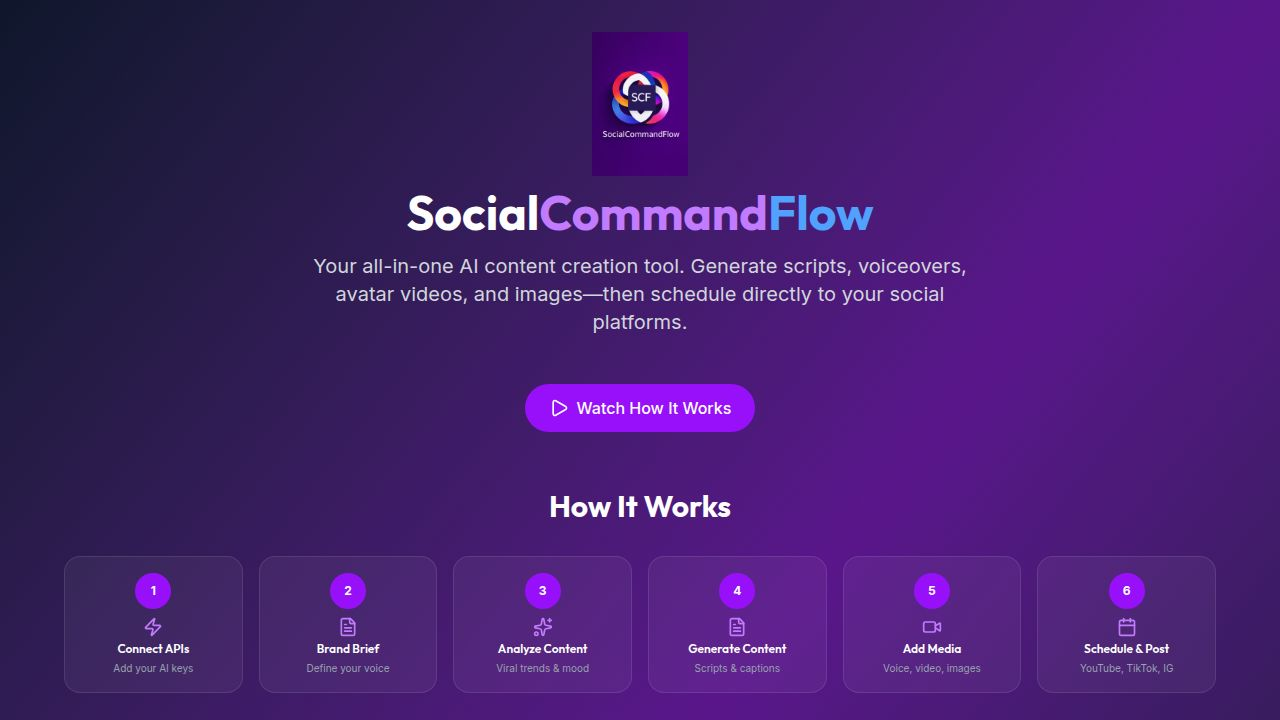
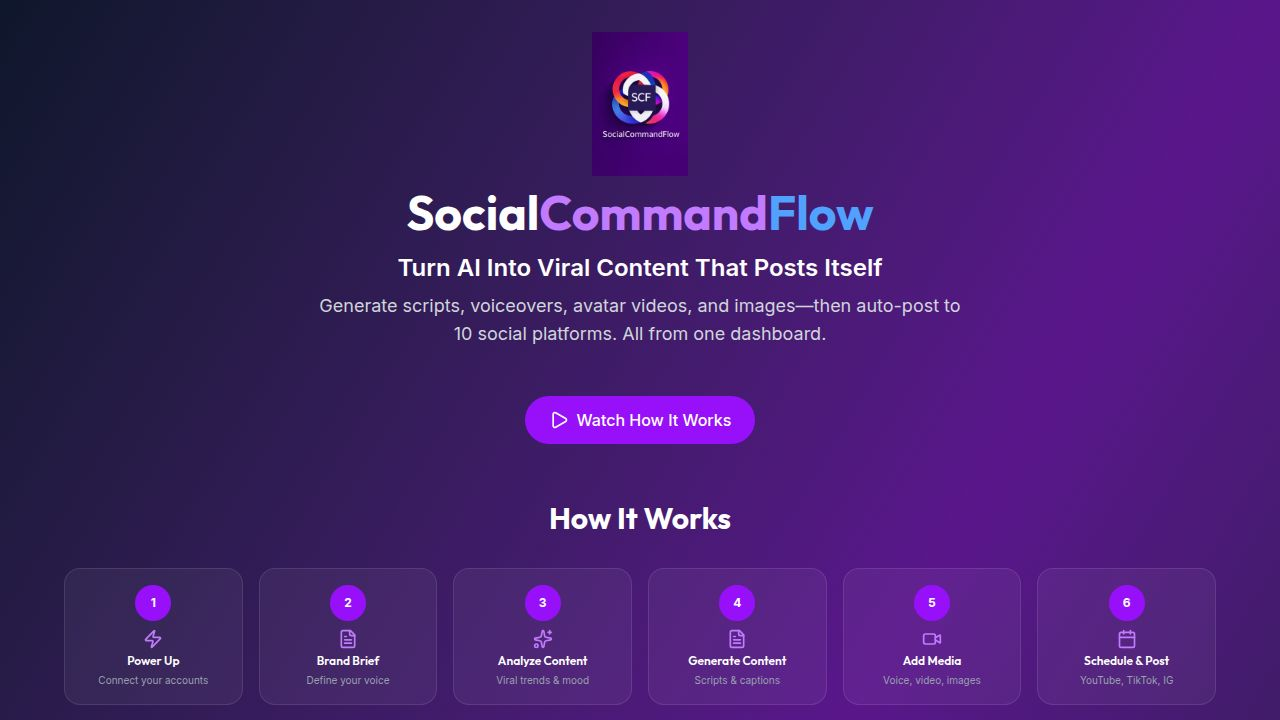
Update landing page to highlight benefits and add pricing
Enhance the landing page by updating the headline to focus on user benefits, adding a testimonial, modifying the initial setup step, and introducing a new pricing section with three tiers.

Replit-Commit-Author: Agent
Replit-Commit-Session-Id: 75572201-90b1-4220-8221-e152abdb9b7f
Replit-Commit-Checkpoint-Type: full_checkpoint
Replit-Commit-Event-Id: 7abbfe2a-8423-4b09-b832-18573d071998
Replit-Commit-Screenshot-Url: https://storage.googleapis.com/screenshot-production-us-central1/776bf55e-733a-4d3d-af04-dcddb1868f6d/75572201-90b1-4220-8221-e152abdb9b7f/YocIDBl
Replit-Helium-Checkpoint-Created: true

diff --git a/client/src/pages/Landing.tsx b/client/src/pages/Landing.tsx
@@ -4,7 +4,7 @@ import { Input } from "@/components/ui/input";
 import { Label } from "@/components/ui/label";
 import { Card, CardContent, CardDescription, CardHeader, CardTitle } from "@/components/ui/card";
 import { Tabs, TabsContent, TabsList, TabsTrigger } from "@/components/ui/tabs";
-import { Zap, Calendar, Sparkles, Video, Mic, Image, FileText, Headphones, Scissors, Wand2, Film, UserCircle, Languages, Clapperboard, Play, MessageSquare } from "lucide-react";
+import { Zap, Calendar, Sparkles, Video, Mic, Image, FileText, Headphones, Scissors, Wand2, Film, UserCircle, Languages, Clapperboard, Play, MessageSquare, Star, Check } from "lucide-react";
 import { Link } from "wouter";
 import { useAuth } from "@/hooks/use-auth";
 
@@ -37,8 +37,11 @@ export default function Landing() {
           <h1 className="text-3xl md:text-5xl font-bold text-white mb-3 md:mb-4">
             Social<span className="text-purple-400">Command</span><span className="text-blue-400">Flow</span>
           </h1>
-          <p className="text-base md:text-xl text-gray-300 max-w-2xl mx-auto px-2">
-            Your all-in-one AI content creation tool. Generate scripts, voiceovers, avatar videos, and images—then schedule directly to your social platforms.
+          <p className="text-xl md:text-2xl font-semibold text-white mb-2">
+            Turn AI Into Viral Content That Posts Itself
+          </p>
+          <p className="text-base md:text-lg text-gray-300 max-w-2xl mx-auto px-2">
+            Generate scripts, voiceovers, avatar videos, and images—then auto-post to 10 social platforms. All from one dashboard.
           </p>
         </div>
 
@@ -62,8 +65,8 @@ export default function Landing() {
             <div className="bg-white/5 border border-white/10 rounded-xl p-3 md:p-4 text-center">
               <div className="w-8 h-8 md:w-9 md:h-9 bg-purple-600 rounded-full flex items-center justify-center mx-auto mb-2 text-white font-bold text-xs">1</div>
               <Zap className="h-5 w-5 text-purple-400 mx-auto mb-1" />
-              <h3 className="text-white font-semibold mb-1 text-xs">Connect APIs</h3>
-              <p className="text-gray-400 text-[10px]">Add your AI keys</p>
+              <h3 className="text-white font-semibold mb-1 text-xs">Power Up</h3>
+              <p className="text-gray-400 text-[10px]">Connect your accounts</p>
             </div>
             
             <div className="bg-white/5 border border-white/10 rounded-xl p-3 md:p-4 text-center">
@@ -157,13 +160,67 @@ export default function Landing() {
           </div>
         </div>
 
-        <div className="text-center mb-8">
-          <Link href="/testimonials">
-            <span className="inline-flex items-center gap-2 text-purple-400 hover:text-purple-300 transition-colors cursor-pointer">
-              <MessageSquare className="h-5 w-5" />
-              <span className="font-medium">See What Our Users Say</span>
-            </span>
-          </Link>
+        <div className="max-w-2xl mx-auto mb-8">
+          <div className="bg-white/5 border border-purple-500/30 rounded-xl p-4 md:p-6 text-center">
+            <div className="flex justify-center gap-1 mb-2">
+              <Star className="h-4 w-4 text-yellow-400 fill-yellow-400" />
+              <Star className="h-4 w-4 text-yellow-400 fill-yellow-400" />
+              <Star className="h-4 w-4 text-yellow-400 fill-yellow-400" />
+              <Star className="h-4 w-4 text-yellow-400 fill-yellow-400" />
+              <Star className="h-4 w-4 text-yellow-400 fill-yellow-400" />
+            </div>
+            <p className="text-gray-200 italic text-sm md:text-base mb-2">
+              "This platform saved me 20+ hours a week. I went from struggling to post daily to having a full content calendar with AI-generated videos ready to go."
+            </p>
+            <p className="text-purple-400 font-medium text-sm">— Social Media Manager</p>
+          </div>
+          <div className="text-center mt-4">
+            <Link href="/testimonials">
+              <span className="inline-flex items-center gap-2 text-purple-400 hover:text-purple-300 transition-colors cursor-pointer">
+                <MessageSquare className="h-5 w-5" />
+                <span className="font-medium">See More Success Stories</span>
+              </span>
+            </Link>
+          </div>
+        </div>
+
+        <div className="max-w-4xl mx-auto mb-10">
+          <h2 className="text-2xl md:text-3xl font-bold text-white text-center mb-6">Simple Pricing</h2>
+          <div className="grid md:grid-cols-3 gap-4">
+            <div className="bg-white/5 border border-white/10 rounded-xl p-5 text-center">
+              <h3 className="text-lg font-bold text-white mb-1">Free</h3>
+              <p className="text-3xl font-bold text-white mb-1">$0</p>
+              <p className="text-gray-400 text-xs mb-4">Forever free</p>
+              <ul className="text-left text-sm text-gray-300 space-y-2">
+                <li className="flex items-center gap-2"><Check className="h-4 w-4 text-green-400" /> 3 social channels</li>
+                <li className="flex items-center gap-2"><Check className="h-4 w-4 text-green-400" /> 10 AI generations/mo</li>
+                <li className="flex items-center gap-2"><Check className="h-4 w-4 text-green-400" /> Basic scheduling</li>
+              </ul>
+            </div>
+            <div className="bg-gradient-to-br from-purple-600/30 to-pink-600/30 border-2 border-purple-500 rounded-xl p-5 text-center relative">
+              <div className="absolute -top-3 left-1/2 -translate-x-1/2 bg-purple-600 text-white text-xs px-3 py-1 rounded-full font-medium">Most Popular</div>
+              <h3 className="text-lg font-bold text-white mb-1">Pro</h3>
+              <p className="text-3xl font-bold text-white mb-1">$49<span className="text-lg text-gray-400">/mo</span></p>
+              <p className="text-gray-400 text-xs mb-4">For growing creators</p>
+              <ul className="text-left text-sm text-gray-300 space-y-2">
+                <li className="flex items-center gap-2"><Check className="h-4 w-4 text-green-400" /> 10 social channels</li>
+                <li className="flex items-center gap-2"><Check className="h-4 w-4 text-green-400" /> 500 AI generations/mo</li>
+                <li className="flex items-center gap-2"><Check className="h-4 w-4 text-green-400" /> Avatar videos + voice</li>
+                <li className="flex items-center gap-2"><Check className="h-4 w-4 text-green-400" /> Social listening</li>
+              </ul>
+            </div>
+            <div className="bg-white/5 border border-white/10 rounded-xl p-5 text-center">
+              <h3 className="text-lg font-bold text-white mb-1">Studio</h3>
+              <p className="text-3xl font-bold text-white mb-1">$149<span className="text-lg text-gray-400">/mo</span></p>
+              <p className="text-gray-400 text-xs mb-4">For agencies & teams</p>
+              <ul className="text-left text-sm text-gray-300 space-y-2">
+                <li className="flex items-center gap-2"><Check className="h-4 w-4 text-green-400" /> Unlimited channels</li>
+                <li className="flex items-center gap-2"><Check className="h-4 w-4 text-green-400" /> 2000 AI generations/mo</li>
+                <li className="flex items-center gap-2"><Check className="h-4 w-4 text-green-400" /> Steve AI longform</li>
+                <li className="flex items-center gap-2"><Check className="h-4 w-4 text-green-400" /> Priority support</li>
+              </ul>
+            </div>
+          </div>
         </div>
 
         <div className="max-w-md mx-auto">
